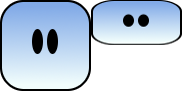
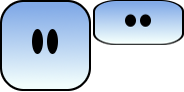
Fixed texture issue (black line on side)

diff --git a/Geimu/Geimu/Square.cs b/Geimu/Geimu/Square.cs
@@ -183,7 +183,7 @@ namespace Geimu {
             if (!mController.walk)
                 sector = new Rectangle(0, 0, SIZE, SIZE);
             else
-                sector = new Rectangle(SIZE, 0, SIZE, SIZE / 2);
+                sector = new Rectangle(SIZE + 2, 0, SIZE, SIZE / 2);
 
             Vector2 origin = new Vector2(0, sector.Height);
 
